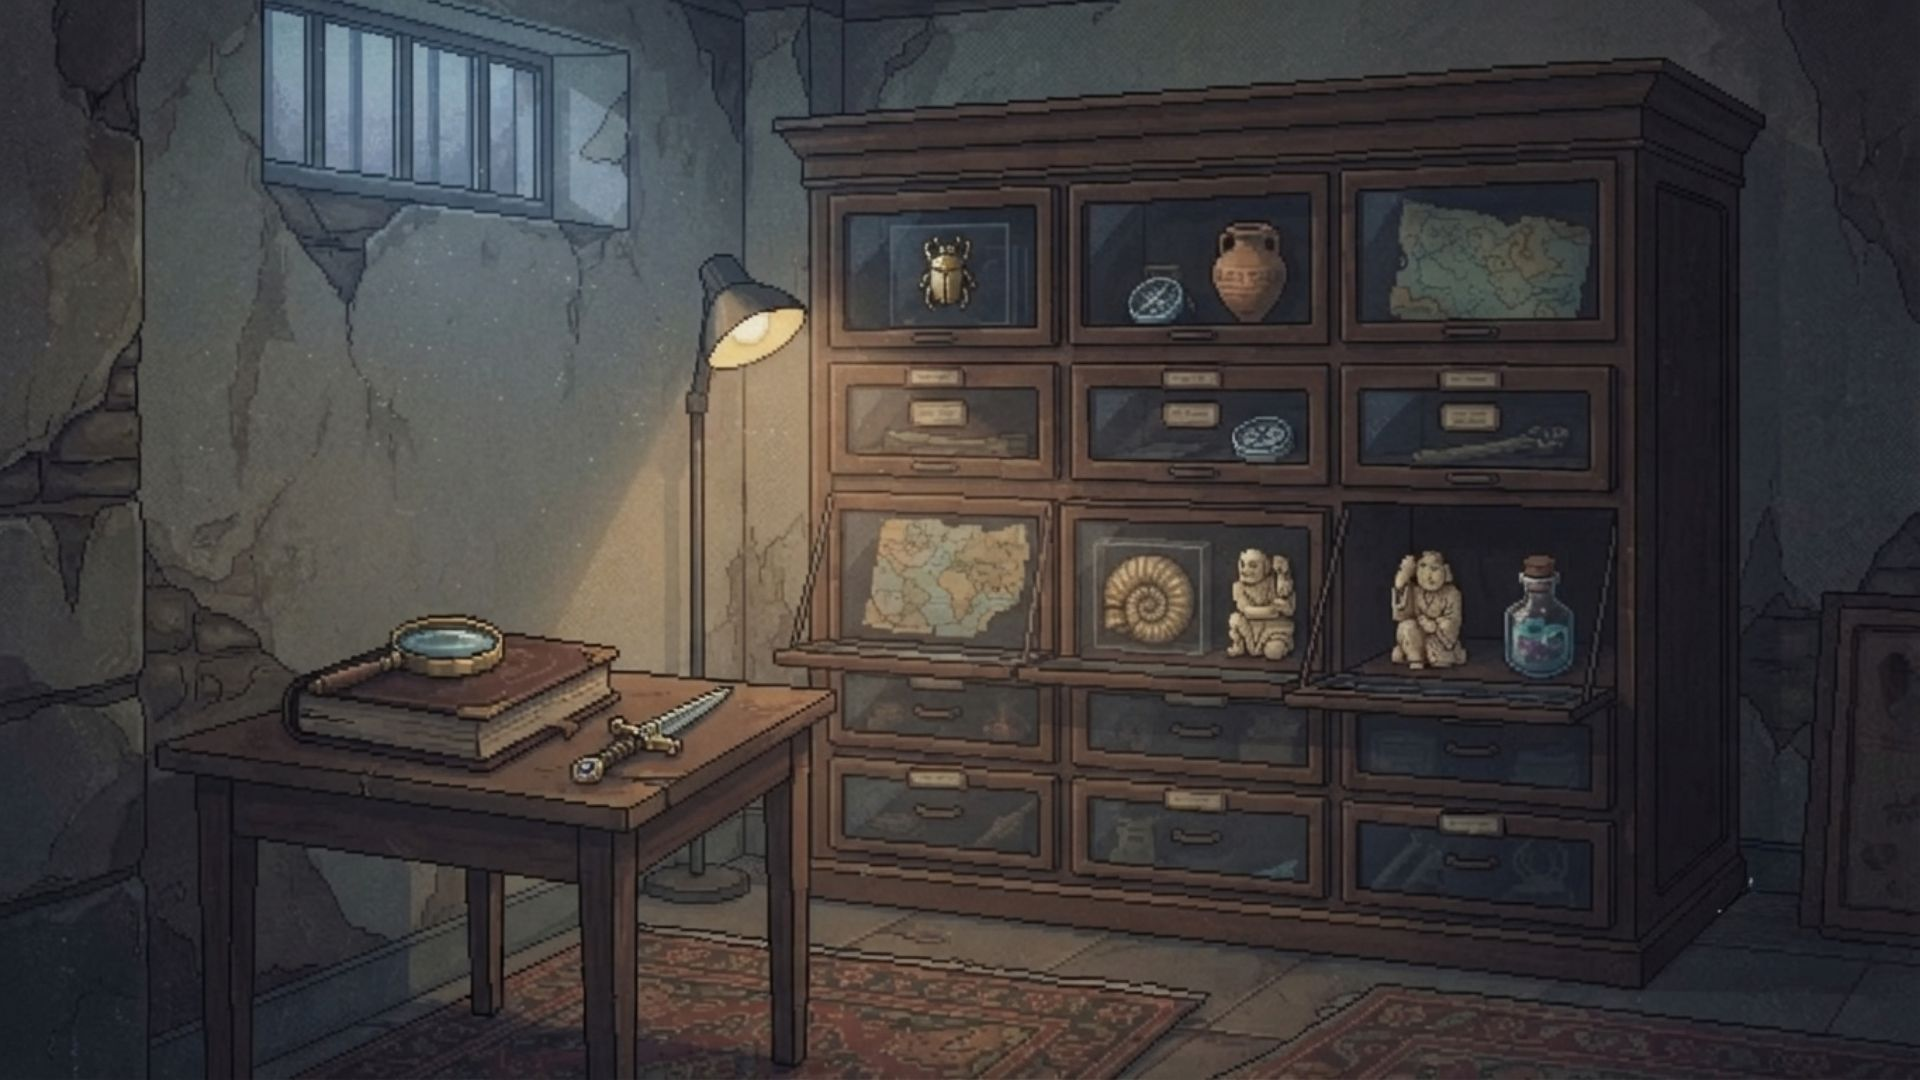
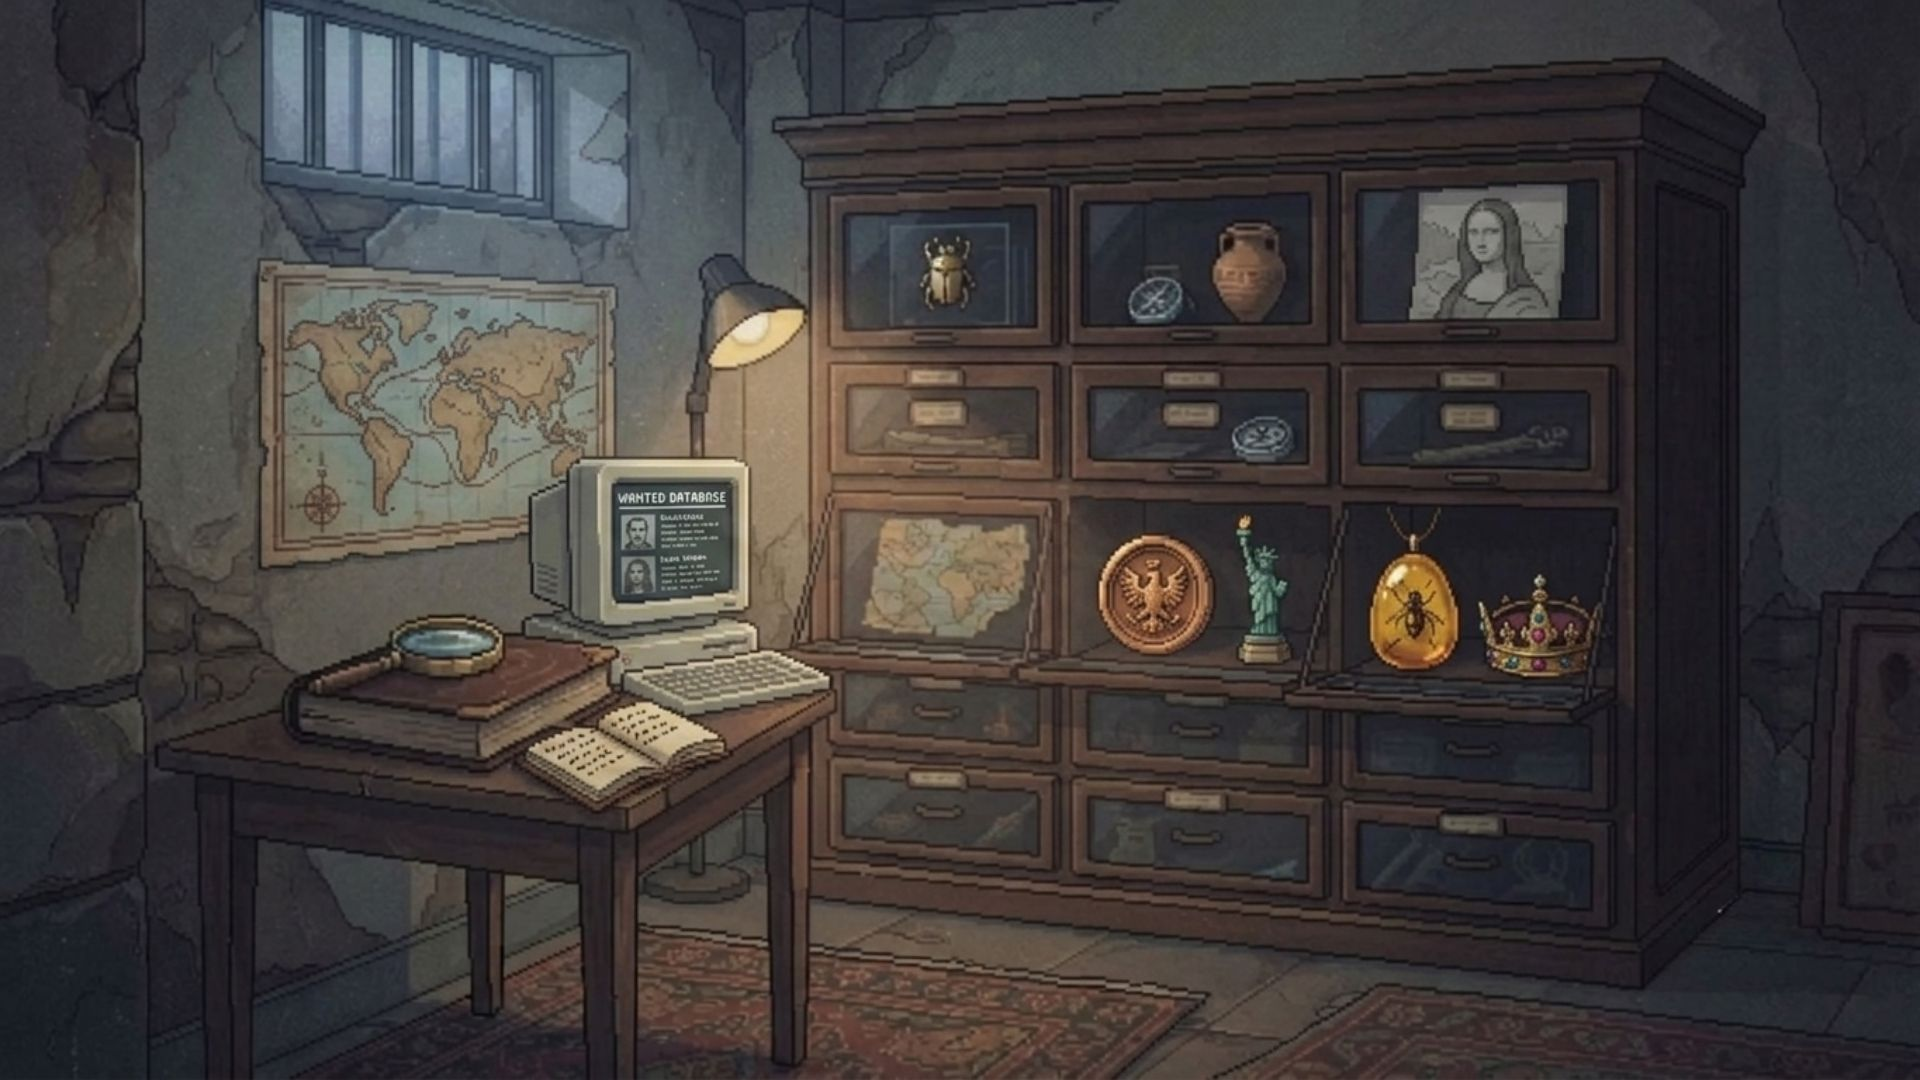
new_dehli locations

Changed region(s): [[0.125, 0.2444, 0.4375, 0.7639], [0.5312, 0.4583, 0.8438, 0.6417], [0.7188, 0.1528, 0.8438, 0.3056]]

diff --git a/scenes/LocationScene.js b/scenes/LocationScene.js
@@ -35,6 +35,32 @@ const NPC_DIALOGUE_ROOT_MAP = {
   bum: 'bumClues'
 };
 
+// Domyślne (bazowe) klucze teł lokacji, wspólne dla większości miast.
+const DEFAULT_LOCATION_BACKGROUND_MAP = {
+  hotel: 'hotel_maid',
+  hotel_maid: 'hotel_maid',
+  parking: 'parking_bg',
+  parking_bg: 'parking_bg',
+  garbage: 'garbage'
+};
+
+// ID miasta New Delhi — dopasuj do wartości używanej w locations.json / gameState.
+const NEW_DELHI_CITY_ID = 'new_delhi';
+
+// Klucze teł dedykowane dla New Delhi (assety wczytane z sufiksem "h").
+const NEW_DELHI_LOCATION_BACKGROUND_MAP = {
+  bank: 'bankh',
+  alley: 'alleyh',
+  airport: 'airporth',
+  hotel: 'hotel_maidh',
+  hotel_maid: 'hotel_maidh',
+  parking: 'parkingh',
+  parking_bg: 'parkingh',
+  policehq: 'policehqh',
+  restaurant: 'restauranth',
+  garbage: 'garbageh'
+};
+
 export class LocationScene extends Phaser.Scene {
   constructor() {
     super({ key: 'LocationScene' });
@@ -270,7 +296,8 @@ export class LocationScene extends Phaser.Scene {
       ? generatedDialogue.notes.filter(Boolean)
       : [];
 
-    const backgroundKey = this.getLocationBackgroundKey(this.locationId);
+    // Kluczowa zmiana: przekazujemy cityId, żeby wybrać właściwy zestaw teł.
+    const backgroundKey = this.getLocationBackgroundKey(this.locationId, this.cityId);
 
     if (backgroundKey && this.textures.exists(backgroundKey)) {
       this.add
@@ -521,16 +548,23 @@ export class LocationScene extends Phaser.Scene {
     return names[npcId] || npcId || 'Unknown witness';
   }
 
-  getLocationBackgroundKey(locationId) {
-    const map = {
-      hotel: 'hotel_maid',
-      hotel_maid: 'hotel_maid',
-      parking: 'parking_bg',
-      parking_bg: 'parking_bg',
-      garbage: 'garbage'
-    };
+  // Zwraca klucz tekstury tła dla danej lokacji, uwzględniając miasto.
+  // Dla New Delhi używamy dedykowanego zestawu teł z sufiksem "h".
+  getLocationBackgroundKey(locationId, cityId = null) {
+    if (cityId === NEW_DELHI_CITY_ID) {
+      const delhiKey = NEW_DELHI_LOCATION_BACKGROUND_MAP[locationId];
+      if (delhiKey && this.textures.exists(delhiKey)) {
+        return delhiKey;
+      }
+      // Fallback, gdyby brakowało konkretnego assetu dla Delhi.
+      console.warn(
+        `LocationScene: brak tekstury Delhi dla locationId "${locationId}", używam domyślnej.`
+      );
+    }
 
-    return map[locationId] || locationId || null;
+    return (
+      DEFAULT_LOCATION_BACKGROUND_MAP[locationId] || locationId || null
+    );
   }
 
   addHoverEffect(button, baseScale = 0.8, hoverScale = 0.9) {

diff --git a/scenes/PreloaderScene.js b/scenes/PreloaderScene.js
@@ -79,6 +79,15 @@ export class PreloaderScene extends Phaser.Scene {
         this.load.image('restaurant', 'assets/local/restaurant.jpg');
         this.load.image('garbage', 'assets/local/garbage.jpg');
 
+        this.load.image('bankh', 'assets/local/bank_h.jpg');
+        this.load.image('alleyh', 'assets/local/alley_h.jpg');
+        this.load.image('airporth', 'assets/local/airport_h.jpg');
+        this.load.image('hotel_maidh', 'assets/local/hotel_maid_h.jpg');
+        this.load.image('parkingh', 'assets/local/parking_h.jpg');
+        this.load.image('policehqh', 'assets/local/police_hq_h.jpg');
+        this.load.image('restauranth', 'assets/local/restaurant_h.jpg');
+        this.load.image('garbageh', 'assets/local/garbage_h.jpg');
+
         this.load.image('berlin', 'assets/cities/Berlin.jpg');
         this.load.image('london', 'assets/cities/London.jpg');
         this.load.image('new_delhi', 'assets/cities/NewDelhi.jpg');

diff --git a/scenes/OfficeScene.js b/scenes/OfficeScene.js
@@ -152,7 +152,7 @@ export class OfficeScene extends Phaser.Scene {
                 id: 'WantedDatabase',
                 room: 'cabinet',
                 x: this.rooms.cabinet.x + 300,
-                y: 650,
+                y: 450,
                 width: 290,
                 height: 95,
                 label: 'Wanted Database',
